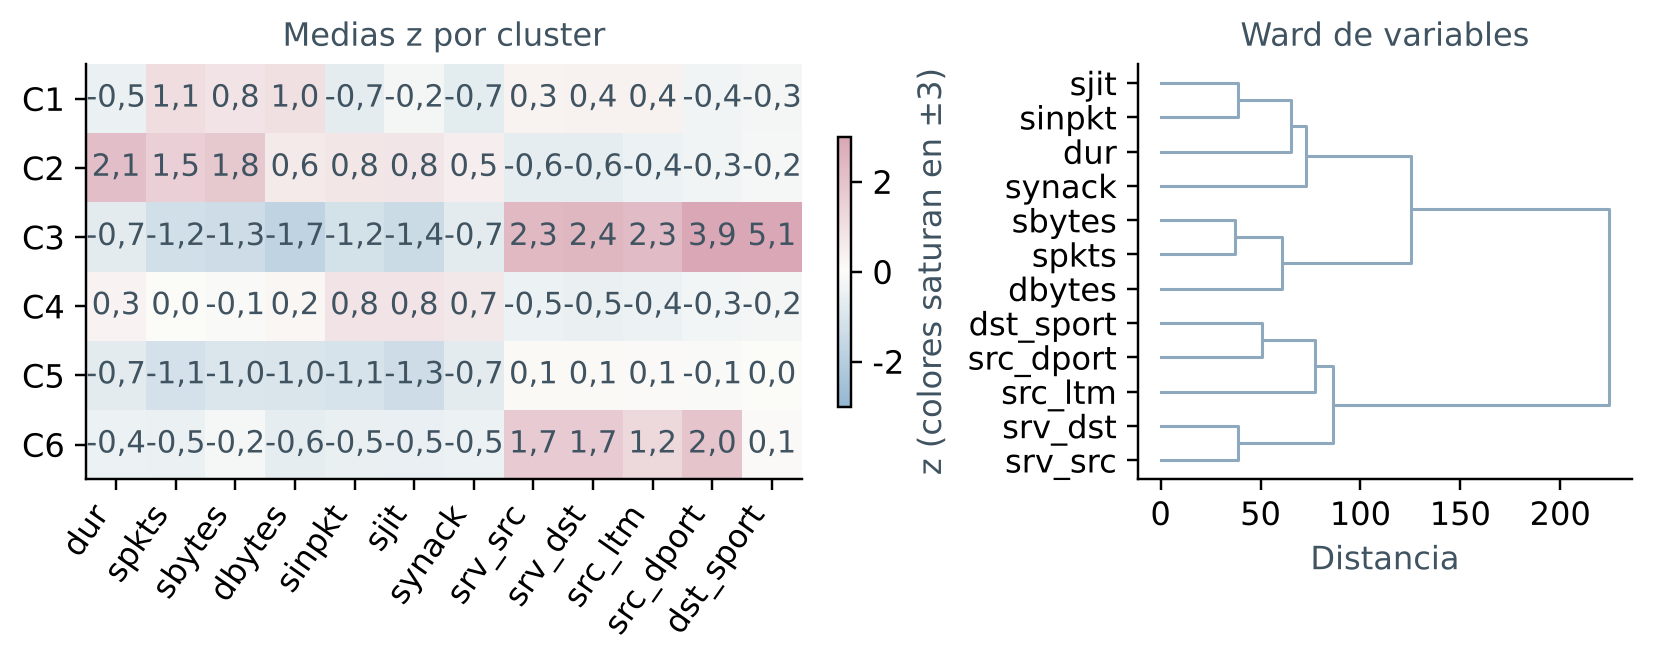
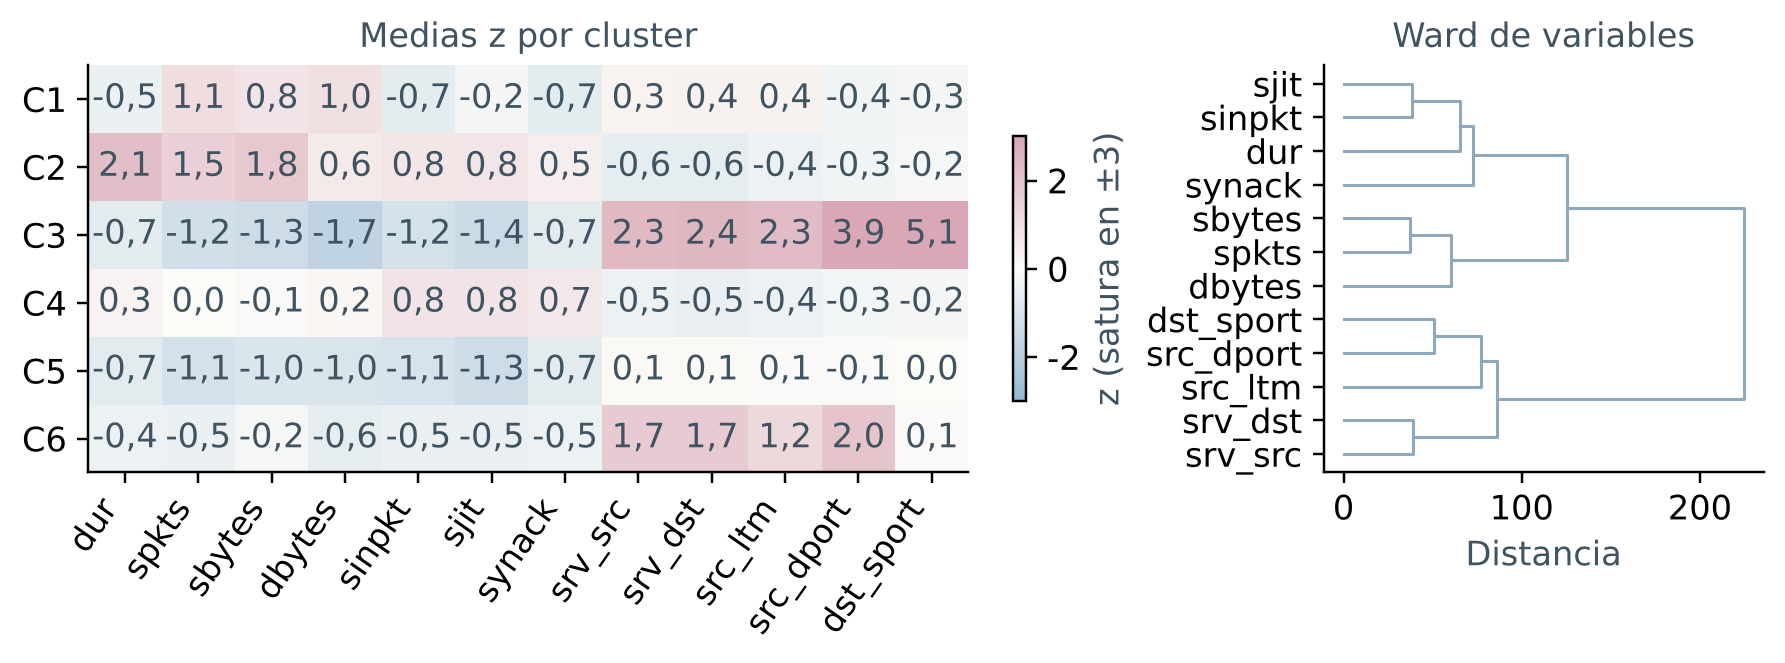
Figuras: legibilidad (en progreso)
Claude-Session: https://claude.ai/code/session_01R3eRD9aWdWVaf9U5N6a3X7

diff --git a/python/graficos_parte2.py b/python/graficos_parte2.py
@@ -50,7 +50,7 @@ def origen(ax):
     ax.axhline(0, color="#D0D6DB", lw=.7)
     ax.axvline(0, color="#D0D6DB", lw=.7)
 
-def adjust_text(texts, ax, expand=None, arrowprops=None, puntos=None, pad=7):
+def adjust_text(texts, ax, expand=None, arrowprops=None, puntos=None, pad=7, peso=3):
     """Colocar etiquetas sin solaparlas (solo Matplotlib).
 
     Búsqueda por descenso de coordenadas: cada etiqueta prueba posiciones en anillos
@@ -71,7 +71,7 @@ def adjust_text(texts, ax, expand=None, arrowprops=None, puntos=None, pad=7):
         v = "bottom" if dy > 3 else "top" if dy < -3 else "center"
         t.set_ha(h); t.set_va(v)
         t.set_position(ax.transData.inverted().transform(anclas[i] + [dx, dy]))
-        return t.get_window_extent(rend).expanded(1.06, 1.12)
+        return t.get_window_extent(rend).expanded(1.08, 1.2)
     def guia(bb, p):
         q = np.array([min(max(p[0], bb.x0), bb.x1), min(max(p[1], bb.y0), bb.y1)])
         return (p, q) if np.hypot(*(q - p)) > 9 else None
@@ -83,17 +83,20 @@ def adjust_text(texts, ax, expand=None, arrowprops=None, puntos=None, pad=7):
     def solape(a, b):
         w = min(a.x1, b.x1) - max(a.x0, b.x0); h = min(a.y1, b.y1) - max(a.y0, b.y0)
         return w * h if w > 0 and h > 0 else 0
+    todos = np.vstack([obst, np.array(anclas)]) if len(obst) else np.array(anclas)
+    OB = np.column_stack([todos[:, 0] - pad, todos[:, 1] - pad, todos[:, 0] + pad, todos[:, 1] + pad])
     n = len(texts)
     elec = [(0, 0)] * n
     cajas = [caja(t, i, 0, 0) for i, t in enumerate(texts)]
     def costo(i, c):
         bb = caja(texts[i], i, *c)
         if bb.x0 < ab.x0 or bb.x1 > ab.x1 or bb.y0 < ab.y0 or bb.y1 > ab.y1: return 1e9
-        k = 3 * np.hypot(*c)
+        k = peso * np.hypot(*c)
         for j in range(n):
-            if j != i: k += 40 * solape(bb, cajas[j])
-        for q in np.vstack([obst, np.array(anclas)]) if len(obst) else np.array(anclas):
-            k += 80 * solape(bb, type(bb)([[q[0]-pad, q[1]-pad], [q[0]+pad, q[1]+pad]]))
+            if j != i: k += 120 * solape(bb, cajas[j])
+        W = np.clip(np.minimum(bb.x1, OB[:, 2]) - np.maximum(bb.x0, OB[:, 0]), 0, None)
+        H = np.clip(np.minimum(bb.y1, OB[:, 3]) - np.maximum(bb.y0, OB[:, 1]), 0, None)
+        k += 80 * float(np.sum(W * H))
         g = guia(bb, anclas[i])
         if g is not None:
             for j in range(n):
@@ -101,11 +104,13 @@ def adjust_text(texts, ax, expand=None, arrowprops=None, puntos=None, pad=7):
                 if seg_en_caja(g, cajas[j]): k += 1500
                 gj = guia(cajas[j], anclas[j])
                 if gj is not None and cruza(*g, *gj): k += 1500
-            for q in obst:
-                if seg_en_caja(g, type(bb)([[q[0]-3, q[1]-3], [q[0]+3, q[1]+3]])): k += 150
+            if len(obst):
+                P = g[0] + (g[1] - g[0]) * np.linspace(0, 1, 14)[:, None]
+                d = np.min(np.hypot(P[:, None, 0] - obst[None, :, 0], P[:, None, 1] - obst[None, :, 1]), axis=1)
+                k += 150 * float(np.sum(d < 4))
         return k
     orden = sorted(range(n), key=lambda i: np.sum(np.hypot(*(np.array(anclas) - anclas[i]).T) < 60), reverse=True)
-    for _ in range(5):
+    for _ in range(8):
         for i in orden:
             mejor = min(cands, key=lambda c: costo(i, c))
             elec[i] = mejor; cajas[i] = caja(texts[i], i, *mejor)
@@ -203,8 +208,8 @@ from matplotlib.lines import Line2D
 handles = [Line2D([], [], marker="o", ls="", markersize=7, markerfacecolor=oscurecer(c, .3), markeredgecolor=DARK, markeredgewidth=.5) for c in TRAFICO.values()]
 fig.legend(handles, list(TRAFICO), loc="outside lower center", ncol=5, columnspacing=1.0, handletextpad=.2)
 adjust_text(texts, ax=ax, arrowprops=dict(arrowstyle="-", color="#929BA2", lw=.4),
-    puntos=np.vstack([u * 2 * r.loc[v, ["PC1", "PC2"]].to_numpy() for v in vars_num for u in np.linspace(.15, 1, 40)]
-        + [xy[scores.index[scores.id.eq(i)][0]][None] for i in ext.id]), pad=3)
+    puntos=np.vstack([u * 2 * r.loc[v, ["PC1", "PC2"]].to_numpy() for v in vars_num for u in np.linspace(.35, 1, 24)]
+        + [xy[scores.index[scores.id.eq(i)][0]][None] for i in ext.id]), pad=2, peso=25)
 guardar(fig, "08_acp_codo_biplot")
 
 par = leer("af_paralelo")
@@ -239,7 +244,7 @@ for ax, pref, titulo, ylabel in [(axs[0], "wss", "Codo", "Suma de cuadrados inte
     ax.plot(metricas.k, metricas[f"{pref}_kmeans"], "o-", color="#8AABC5", label="K-means")
     ax.axvline(k, color=DARK, lw=.7, ls=":")
     ax.set(title=titulo, xlabel="k", ylabel=ylabel, xticks=range(2, 9))
-    ax.legend()
+axs[0].legend(loc="upper right")
 guardar(fig, "10_cluster_seleccion")
 
 fuente(13)
@@ -250,16 +255,16 @@ ax.axhline((link[-k, 2] + link[-k + 1, 2]) / 2, color=DARK, ls="--", lw=.8)
 ax.set(title="Ward.D2 · últimos 15 nodos del árbol de 5.000 flujos", xlabel="Nodos agregados (tamaño entre paréntesis)", ylabel="Altura")
 guardar(fig, "11_cluster_dendrograma")
 
-fuente(10.5)  # 7,4 in -> 14,1 cm (x0,75): ~7,9 pt
-fig, axs = plt.subplots(1, 2, figsize=(7.4, 2.9), layout="constrained", gridspec_kw={"width_ratios": [1.45, 1]})
+fuente(11)  # 8,0 in -> 14,1 cm (x0,69): ~7,6 pt
+fig, axs = plt.subplots(1, 2, figsize=(8.0, 2.9), layout="constrained", gridspec_kw={"width_ratios": [2.0, 1]})
 perfil = leer("cluster_medias_estandarizadas").set_index("cluster")
 im = axs[0].imshow(perfil, cmap=CMAP, vmin=-3, vmax=3, aspect="auto")
 axs[0].set_xticks(range(12), ABR, rotation=55, ha="right")
 axs[0].set_yticks(range(k), [f"C{i}" for i in range(1, k + 1)])
 axs[0].set_title("Medias z por cluster")
 for i in range(k):
-    for j in range(12): axs[0].text(j, i, f"{perfil.iloc[i,j]:.1f}".replace(".", ","), ha="center", va="center", fontsize=10)
-fig.colorbar(im, ax=axs[0], shrink=.65, label="z (colores saturan en ±3)")
+    for j in range(12): axs[0].text(j, i, f"{perfil.iloc[i,j]:.1f}".replace(".", ","), ha="center", va="center", fontsize=11)
+fig.colorbar(im, ax=axs[0], shrink=.65, label="z (satura en ±3)")
 dendrogram(linkage_r("cluster_dendrograma_variables", 12), labels=ABR, orientation="right",
     ax=axs[1], link_color_func=lambda _: "#8EA9BE", leaf_font_size=10)
 axs[1].set(title="Ward de variables", xlabel="Distancia")
@@ -285,11 +290,11 @@ for name, color, marker in [("acs_filas", COL[0], "o"), ("acs_columnas", COL[4],
         ax.annotate(row.iloc[0], (row.iloc[1], row.iloc[2]), xytext=(dx, dy),
                     textcoords="offset points", ha=ha, va="center")
 coords_acs = np.vstack(coords_acs)
-ax.set_xlim(coords_acs[:, 0].min() - .25, coords_acs[:, 0].max() + .25)
-ax.set_ylim(coords_acs[:, 1].min() - .2, coords_acs[:, 1].max() + .2)
+ax.set_xlim(coords_acs[:, 0].min() - .4, coords_acs[:, 0].max() + .25)
+ax.set_ylim(coords_acs[:, 1].min() - .2, coords_acs[:, 1].max() + .45)
 origen(ax)
 ax.set(xlabel="Dimensión 1", ylabel="Dimensión 2", title="ACS · tipo de tráfico y estado")
-ax.legend(loc="upper center", bbox_to_anchor=(0.42, 1), ncol=2, columnspacing=1.0, handletextpad=.2)
+ax.legend(loc="upper center", bbox_to_anchor=(0.4, 1), ncol=2, columnspacing=1.0, handletextpad=.2)
 guardar(fig, "13_acs_mapa")
 
 e = leer("acm_autovalores")
@@ -320,9 +325,9 @@ for i, var in enumerate(variables_cat):
 ax.margins(.22)
 origen(ax)
 ax.set(title="ACM · categorías activas", xlabel="Dimensión 1 · 27,42% cruda", ylabel="Dimensión 2 · 14,03% cruda")
-fig.supxlabel("Tr tráfico · Pr protocolo · Sv servicio · Es estado · Rp respuesta · Du duración · By bytes", fontsize=11.5)
+fig.supxlabel("Tr tráfico · Pr protocolo · Sv servicio · Es estado\nRp respuesta · Du duración · By bytes", fontsize=11.5)
 adjust_text(texts, ax=ax, expand=(1.1, 1.2), arrowprops=dict(arrowstyle="-", color="#AAB2B9", lw=.5),
-    puntos=co[["Dim.1", "Dim.2"]].to_numpy(), pad=6)
+    puntos=co[["Dim.1", "Dim.2"]].to_numpy(), pad=6, peso=8)
 guardar(fig, "15_acm_categorias")
 
 fuente(10)  # 6,5 in -> ~13,6 cm (x0,82): ~8,2 pt
@@ -334,7 +339,7 @@ for i in range(1, k + 1):
     axs[0].scatter(d["Dim.1"], d["Dim.2"], s=5, alpha=.15, color=COL[i - 1], rasterized=True)
     r = su[su.cluster.eq(i)].iloc[0]
     axs[0].scatter(r["Dim.1"], r["Dim.2"], color=COL[i - 1], edgecolor=DARK, marker="D", s=65)
-    axs[0].annotate(f"C{i}", (r["Dim.1"], r["Dim.2"]), xytext=(5, 4), textcoords="offset points")
+    axs[0].annotate(f"C{i}", (r["Dim.1"], r["Dim.2"]), xytext={2: (0, 11), 4: (10, -3)}.get(i, (6, 4)), ha="center" if i == 2 else "left", va="center" if i == 4 else "baseline", textcoords="offset points")
 origen(axs[0])
 axs[0].set(title="Clusters suplementarios", xlabel="Dimensión 1", ylabel="Dimensión 2")
 eta = leer("acm_eta2")
@@ -343,6 +348,7 @@ axs[1].barh(y - .18, eta["Dim.1"], height=.35, color=COL[0], edgecolor=DARK, lw=
 axs[1].barh(y + .18, eta["Dim.2"], height=.35, color=COL[1], edgecolor=DARK, lw=.4, label="Dim 2")
 axs[1].set_yticks(y, eta.variable)
 axs[1].set(xlim=(0, 1), xlabel="eta²", title="Discriminación por variable")
-axs[1].legend()
+axs[1].set_ylim(-.6, len(eta) + .45)
+axs[1].legend(loc="upper right", ncol=2, columnspacing=1.0, handlelength=1.2)
 guardar(fig, "16_acm_clusters_eta")
 print("Figuras 07 a 16 generadas con Matplotlib.")
